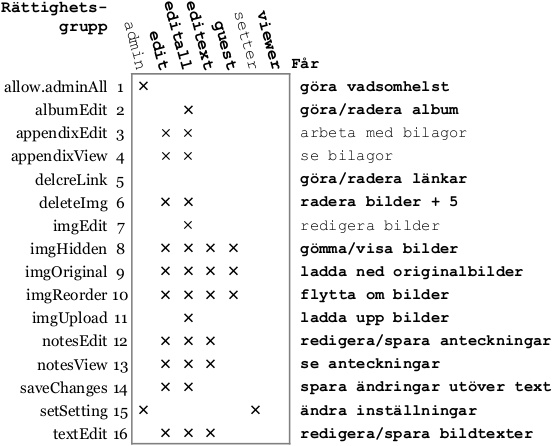
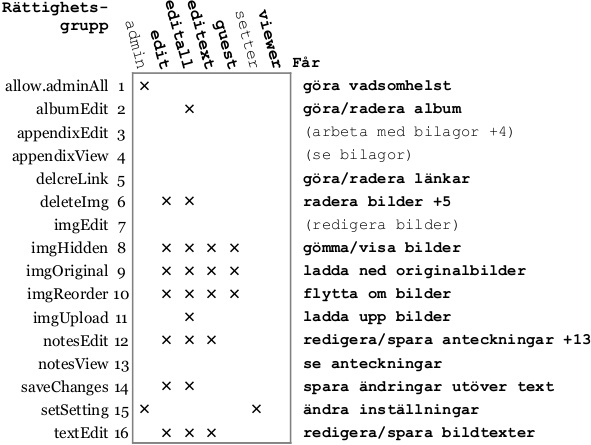
custom page

diff --git a/mish-project/app/components/menu-buttons.js b/mish-project/app/components/menu-buttons.js
@@ -806,7 +806,7 @@ export default Component.extend (contextMenuMixin, {
   init () { // ##### Component initiation
     this._super (...arguments);
     $ (document).ready ( () => {
-      $ ("#menuButton").attr ("title", "HUVUDMENY"); // i18n
+      $ ("#menuButton").attr ("title", "Öppna menyn"); // i18n
       // Set the hidden-picture text background color:
       //$ ("#hideColor").text ("rgb(85, 85, 85)");
       $ ("#hideColor").text ("rgb(153, 153, 153)");
@@ -814,7 +814,6 @@ export default Component.extend (contextMenuMixin, {
       $ ("body").addClass ("BACKG TEXTC");
       $ ("body").css ("background", BACKG);
       $ ("body").css ("color", TEXTC);
-
       later ( ( () => {
         console.log ("jQuery v" + $ ().jquery);
         // The time stamp is produced with the Bash 'ember-b-script'
@@ -1763,8 +1762,6 @@ export default Component.extend (contextMenuMixin, {
     //============================================================================================
     selectRoot (value) { // ##### Select album root dir (imdb) from dropdown
 
-      //spinnerWait (true);
-      //$ ("#menuButton").attr ("title", "HUVUDMENY, välj album");
       // Close all dialogs/windows
       ediTextClosed ();
       //$ ("div.settings, div.settings div.root, div.settings div.check").hide ();
@@ -1946,8 +1943,7 @@ export default Component.extend (contextMenuMixin, {
         }*/
 
         if (value) {
-          //$ ("#menuButton").attr ("title", "HUVUDMENY, valt album:  " + that.get ("albumName") + "  (" + albumPath () + ")");
-          //$ (".imDir.path").attr ("title", albumPath ());
+          $ (".imDir.path").attr ("title", albumPath ());
           $ (".imDir.path").attr ("title-1", albumPath ());
         }
 
@@ -2386,7 +2382,7 @@ export default Component.extend (contextMenuMixin, {
     //============================================================================================
     toggleBackg () { // ##### Change theme light/dark
 
-      $ (".mainMenu").hide ();
+      if ($ ("#imdbRoot").text ()) {$ (".mainMenu").hide ();}
       if (BACKG === "#000") {
         BACKG = "#cbcbcb";
         TEXTC = "#000";
@@ -4289,16 +4285,16 @@ var allowance = [ // 'allow' order
 var allowSV = [ // Ordered as 'allow', IMPORTANT!
   "Får göra vadsomhelst",
   "göra/radera album",
-  "(arbeta med bilagor + 4)",
+  "(arbeta med bilagor +4)",
   "(se bilagor)",
   "göra/radera länkar",
-  "radera bilder + 5",
+  "radera bilder +5",
   "redigera bilder",
   "gömma/visa bilder",
   "ladda ned originalbilder",
   "flytta om bilder",
   "ladda upp bilder",
-  "redigera/spara anteckningar",
+  "redigera/spara anteckningar +13",
   "se anteckningar",
   "spara ändringar utöver text",
   "ändra inställningar",

diff --git a/mish-project/app/styles/app.css b/mish-project/app/styles/app.css
@@ -416,7 +416,7 @@ button.mainMenuClose.ui-dialog-titlebar-close:hover {
   vertical-align: top;
   margin: 0;
 }
-#title input.cred, #title button, a.finish * {
+#title input.cred, #title button, #title a.finish {
   font-family: Verdana, Geneva, Tahoma, sans-serif!important;
   font-size: 0.8em;
   text-align: center;
@@ -427,6 +427,9 @@ button.mainMenuClose.ui-dialog-titlebar-close:hover {
   border: 1.0px solid #aaa;
   border-radius: 2px;
   background: transparent;
+}
+#title a.finish, #title button.viewSettings {
+  font-size: 70%;
 }
 div.check button {
   margin-top: 0.4em!important;
@@ -492,7 +495,8 @@ div.check button {
   vertical-align: middle;
   text-align: center;
   background: #444;
-  padding: 0em 0.2em 0.6em 0.2em;
+  padding: 0.1em 0.2em 0.5em 0.2em;
+  line-height: 1.5em;
   margin: 0;
   font-family: Verdana, Geneva, Tahoma, sans-serif;
   font-weight: bold;
@@ -532,7 +536,8 @@ div[aria-describedby='textareas'] {
   vertical-align: middle;
   text-align: center;
   background: #444;
-  padding: 0.2em 0.2em 0.4em 0.2em;
+  padding: 0.3em 0.2em 0.3em 0.2em;
+  line-height: 1em;
   margin-bottom: 1.05em;
   font-family: Verdana, Geneva, Tahoma, sans-serif;
   font-weight: bold;

diff --git a/mish-project/public/start.html b/mish-project/public/start.html
@@ -8,10 +8,27 @@
     <meta name="keywords" content="photo,foto,album,gallery,slideshow">
     <meta name="author" content="Tore Ericsson et al.">
     <meta name="viewport" content="width=device-width, initial-scale=1">
+    <link rel="stylesheet" type="text/css" href="/start.css">
   </head>
   <body>
-    <h3>Minnen från Sävarådalen och Holmön</h3>
-    <p>Här är MiSH-länken:</p>
-    <a href="/"><b>Till bilderna!</b></a>
+
+    <h3>Minnen från Sävarådalen och Holmön:</h3>
+    <p>
+      <a href="/index.html"><b>Till bilderna!</b></a><br>&nbsp;
+    </p>
+    <div id="wrap">
+      <div id="lef">
+        &nbsp;
+      </div>
+      <div id="gall">
+        <img src="/images/1Kl6Savar1928.jpg">
+        <img src="/images/1FiFly40tal.jpg">
+        <img src="/images/1Kl6Savar1928.jpg">
+        <img src="/images/1FiFly40tal.jpg">
+      </div>
+      <div id="rig">
+        &nbsp;
+      </div>
+    </div>
   </body>
 </html>

diff --git a/mish-project/public/start.css b/mish-project/public/start.css
@@ -1,0 +1,37 @@
+body::after {
+  content: "";
+  background: url("images/bg034030hq.jpeg");
+  opacity: 0.7;
+  top: 0;
+  left: 0;
+  bottom: 0;
+  right: 0;
+  position: absolute;
+  z-index: -1;
+}
+h3, p {
+  display: inline;
+  padding-left: 0.1em;
+}
+#wrap {
+}
+#lef {
+  display: inline-block;
+  float: left;
+  width: 24%;
+}
+#gall {
+  display: inline-block;
+  width: 50%;
+  text-align: center;
+}
+#gall img {
+  width: 10em;
+  height: auto;
+  margin: 0.2em;
+}
+#rig {
+  display: inline-block;
+  width: 24%;
+  float: right;
+}
